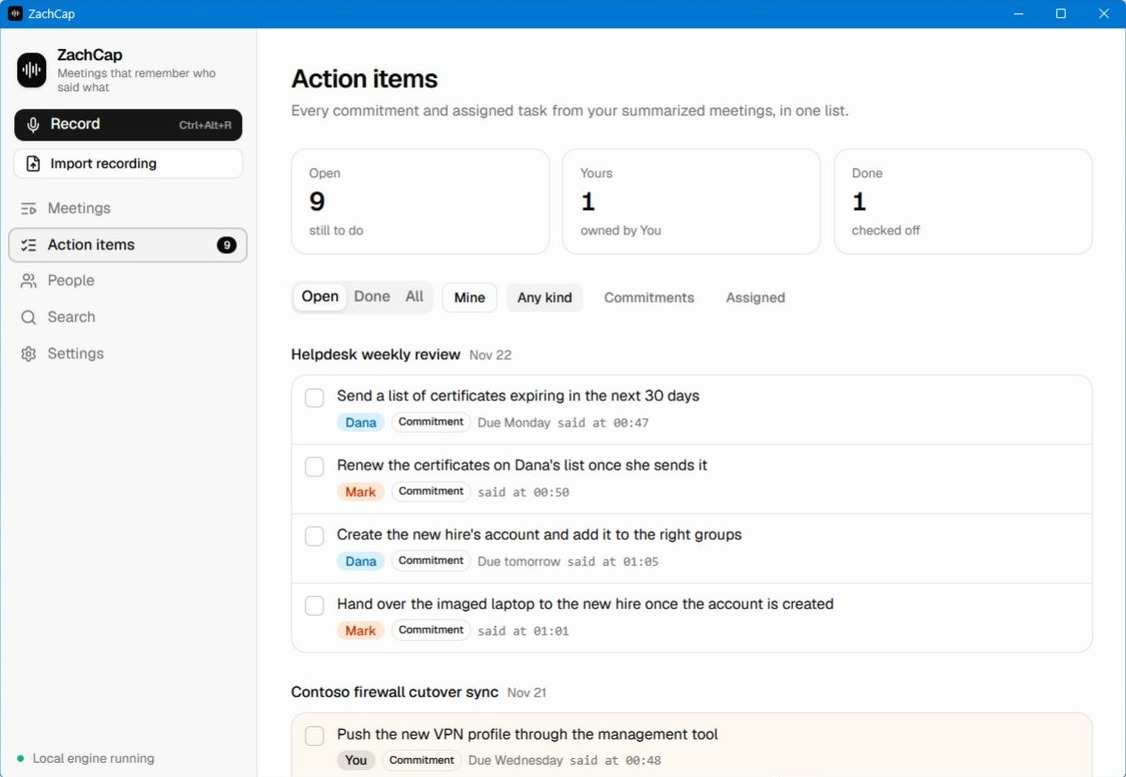
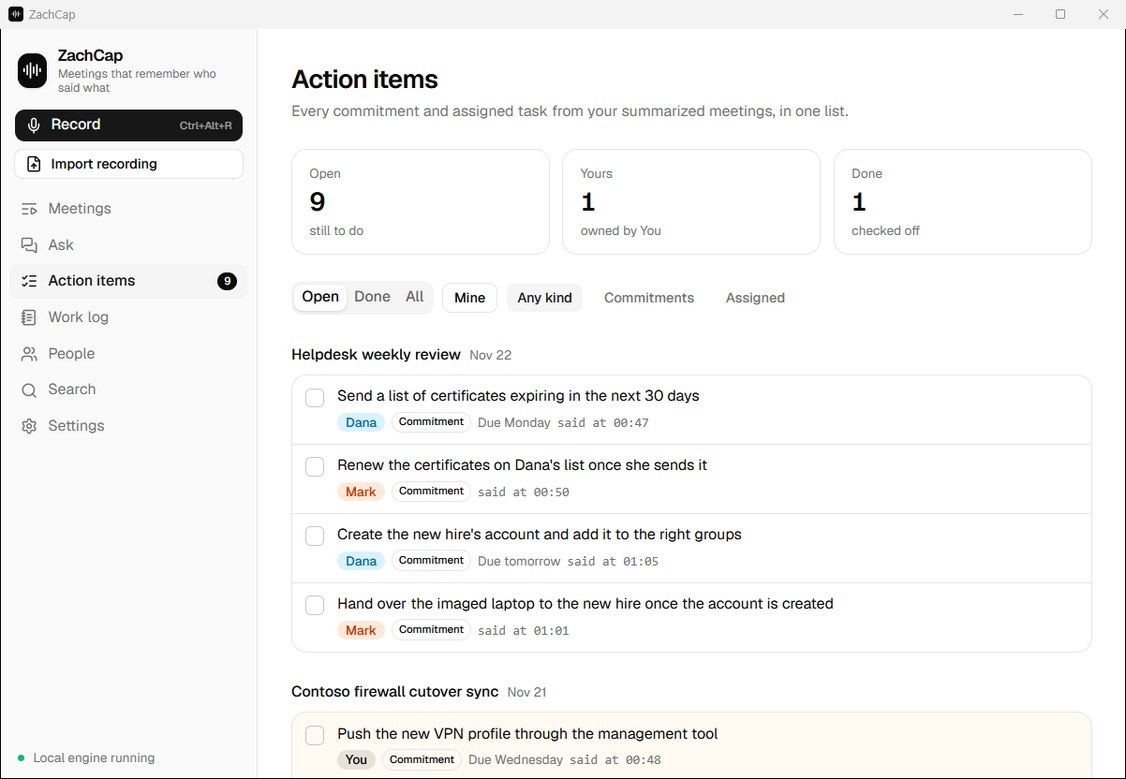
docs: refresh the screenshots and add the work log (#37)
## What

Refreshed README screenshots: the old ones predated tonight's features
(no Ask or Work log in the sidebar, no home page chart, no one-click
documents, no conversation stats). Five images, including a new one of
the work log:
- `meeting.jpg` (the hero): a meeting's lanes and summary, with the
kind-of-meeting picker and "Write from this meeting";
- `home.jpg`: meeting time, your open items and the setup checklist;
- `work-log.jpg` (new): a week's meetings with draft time entries;
- `speakers.jpg`: talk time, conversation stats and voices;
- `action-items.jpg`: the tracker across meetings.

## How they were made

From the release build running on the demo library (synthetic meetings
only, nothing real), driven through WebView2's debugging port. Each
window drew itself (`PrintWindow`, the same method snapshots use), so
the title bar is included as in the old images, and it works with the
display off. Every image was viewed before committing: demo names only,
no paths, no keys, no focus rings left over from the scripted clicks.

diff --git a/README.md b/README.md
@@ -35,8 +35,8 @@ Teams mixes every remote voice into one stream, so ZachCap separates speakers it
 
 | | |
 |---|---|
-| ![Home](docs/images/home.jpg) | ![Speakers](docs/images/speakers.jpg) |
-| ![Action items](docs/images/action-items.jpg) | |
+| ![Home: meeting time, your open items, getting set up](docs/images/home.jpg) | ![Work log: a week's meetings with draft time entries](docs/images/work-log.jpg) |
+| ![Speakers: talk time, conversation stats and voices](docs/images/speakers.jpg) | ![Action items across every meeting](docs/images/action-items.jpg) |
 
 ## Quick start
 
